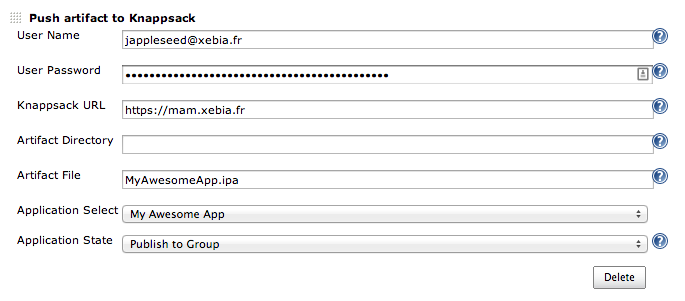
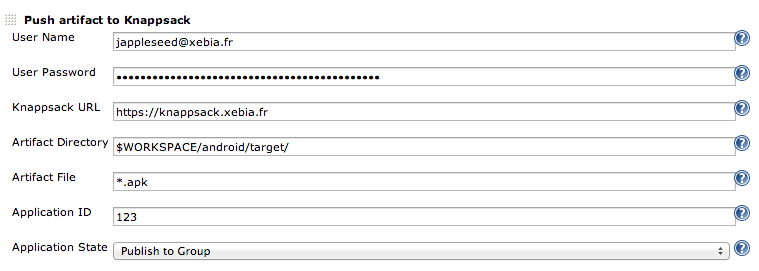
Replaced potentially harmful Application List with Application Id Field

Changed region(s): [[0.0, 0.0295, 1.0, 0.9742]]

diff --git a/src/main/resources/org/jenkinsci/plugins/knappsack/KnappsackRecorder/help-application.html b/src/main/resources/org/jenkinsci/plugins/knappsack/KnappsackRecorder/help-application.html
@@ -1,0 +1,5 @@
+<div>
+    Specify the id of the application you want to upload a build for.
+    It usually is the number following the KNAPPSACK/detail/ url, e.g.
+    http://myknappsack.com/detail/123  
+</div>

diff --git a/src/main/java/org/jenkinsci/plugins/knappsack/KnappsackBuildStepDescriptor.java b/src/main/java/org/jenkinsci/plugins/knappsack/KnappsackBuildStepDescriptor.java
@@ -34,18 +34,18 @@ public class KnappsackBuildStepDescriptor extends BuildStepDescriptor<Publisher>
         return "Push artifact to Knappsack";
     }
 
-    public ListBoxModel doFillApplicationItems(@QueryParameter String userName, @QueryParameter Secret userPassword, @QueryParameter String knappsackURL) {
-        ListBoxModel m = new ListBoxModel();
+    // public ListBoxModel doFillApplicationItems(@QueryParameter String userName, @QueryParameter Secret userPassword, @QueryParameter String knappsackURL) {
+    //     ListBoxModel m = new ListBoxModel();
 
-        if (!userName.isEmpty() && !userPassword.getEncryptedValue().isEmpty() && !knappsackURL.isEmpty()) {
-            KnappsackAPI knappsackAPI = new KnappsackAPI(knappsackURL, userName, userPassword);
-            Application[] applications = knappsackAPI.getApplications();
-            for (Application application : applications) {
-                m.add(application.getName(), application.getId().toString());
-            }
-        }
-        return m;
-    }
+    //     if (!userName.isEmpty() && !userPassword.getEncryptedValue().isEmpty() && !knappsackURL.isEmpty()) {
+    //         KnappsackAPI knappsackAPI = new KnappsackAPI(knappsackURL, userName, userPassword);
+    //         Application[] applications = knappsackAPI.getApplications();
+    //         for (Application application : applications) {
+    //             m.add(application.getName(), application.getId().toString());
+    //         }
+    //     }
+    //     return m;
+    // }
 
     public ListBoxModel doFillApplicationStateItems() {
         ListBoxModel m = new ListBoxModel();

diff --git a/src/main/java/org/jenkinsci/plugins/knappsack/KnappsackRecorder.java b/src/main/java/org/jenkinsci/plugins/knappsack/KnappsackRecorder.java
@@ -72,7 +72,7 @@ public class KnappsackRecorder extends Recorder {
             return false;
         }
 
-        listener.getLogger().println("Uploading to Knappsack");
+        listener.getLogger().println("Uploading to Knappsack...");
 
         EnvVars vars = build.getEnvironment(listener);
         String workspace = vars.expand("$WORKSPACE");
@@ -83,12 +83,21 @@ public class KnappsackRecorder extends Recorder {
     }
 
     private File findInstallationFile(String artifactDirectory, String artifactFile, String workspace, AbstractBuild<?, ?> build, BuildListener listener) throws InterruptedException, IOException {
+        
+        listener.getLogger().println("Artifact file: " + artifactFile);
+        listener.getLogger().println("Artifact directory: " + artifactDirectory);
 
         EnvVars vars = build.getEnvironment(listener);
-        listener.getLogger().println("Artifact file: " + artifactFile);
-        LOG.info(artifactDirectory);
+        Boolean artifactDirectoryContainsWorkspace = artifactDirectory.indexOf("$WORKSPACE") != -1;
+
+        // Adds trailing slash
         if (!artifactDirectory.endsWith(System.getProperty("file.separator"))) {
             artifactDirectory = artifactDirectory + System.getProperty("file.separator");
+        }
+
+        // Adds workspace at the beginning of the path if the path does not begin with a slash
+        if (!artifactDirectoryContainsWorkspace && !artifactDirectory.startsWith(System.getProperty("file.separator"))) {
+            artifactDirectory = workspace + artifactDirectory;
         }
 
         File file = null;
